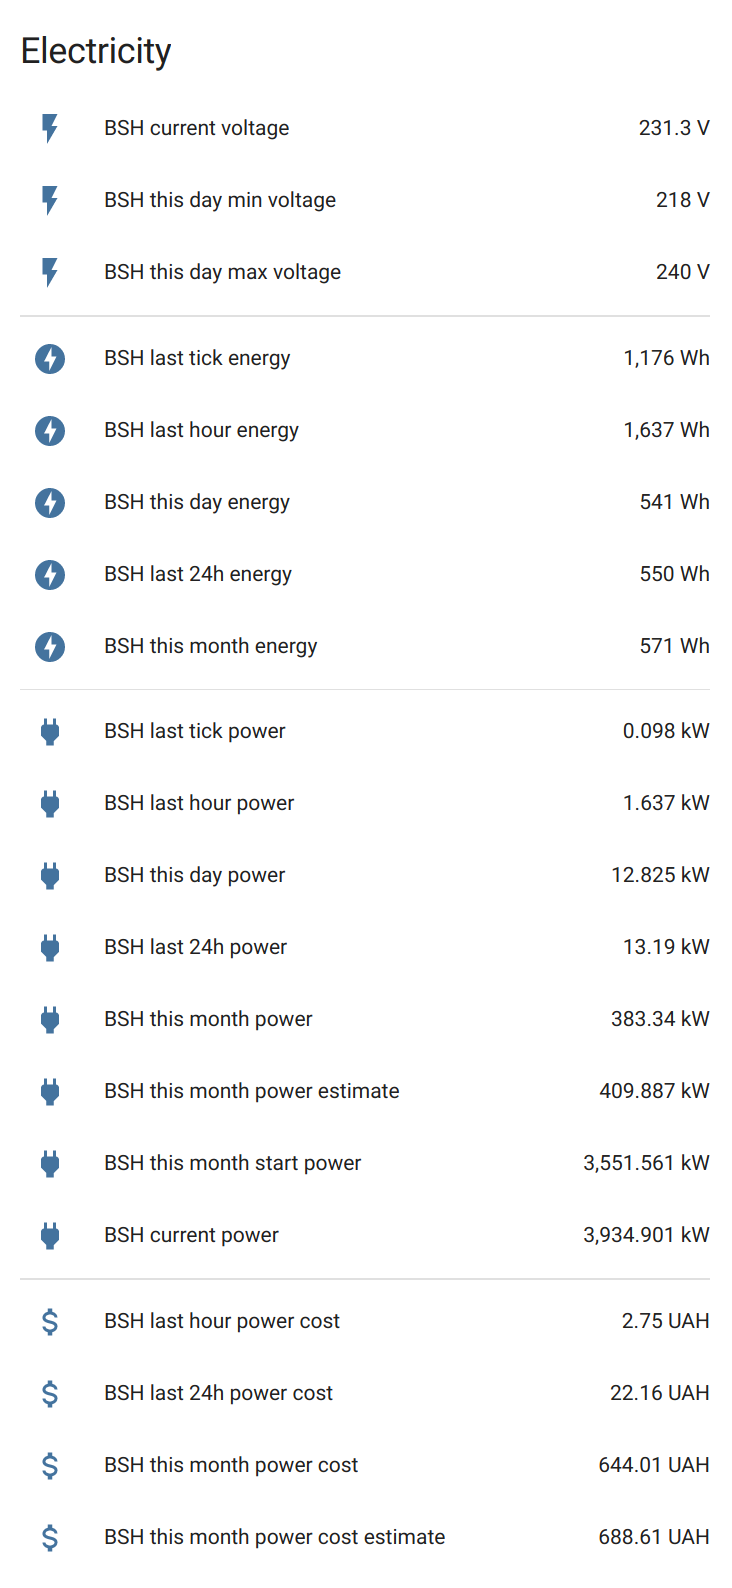
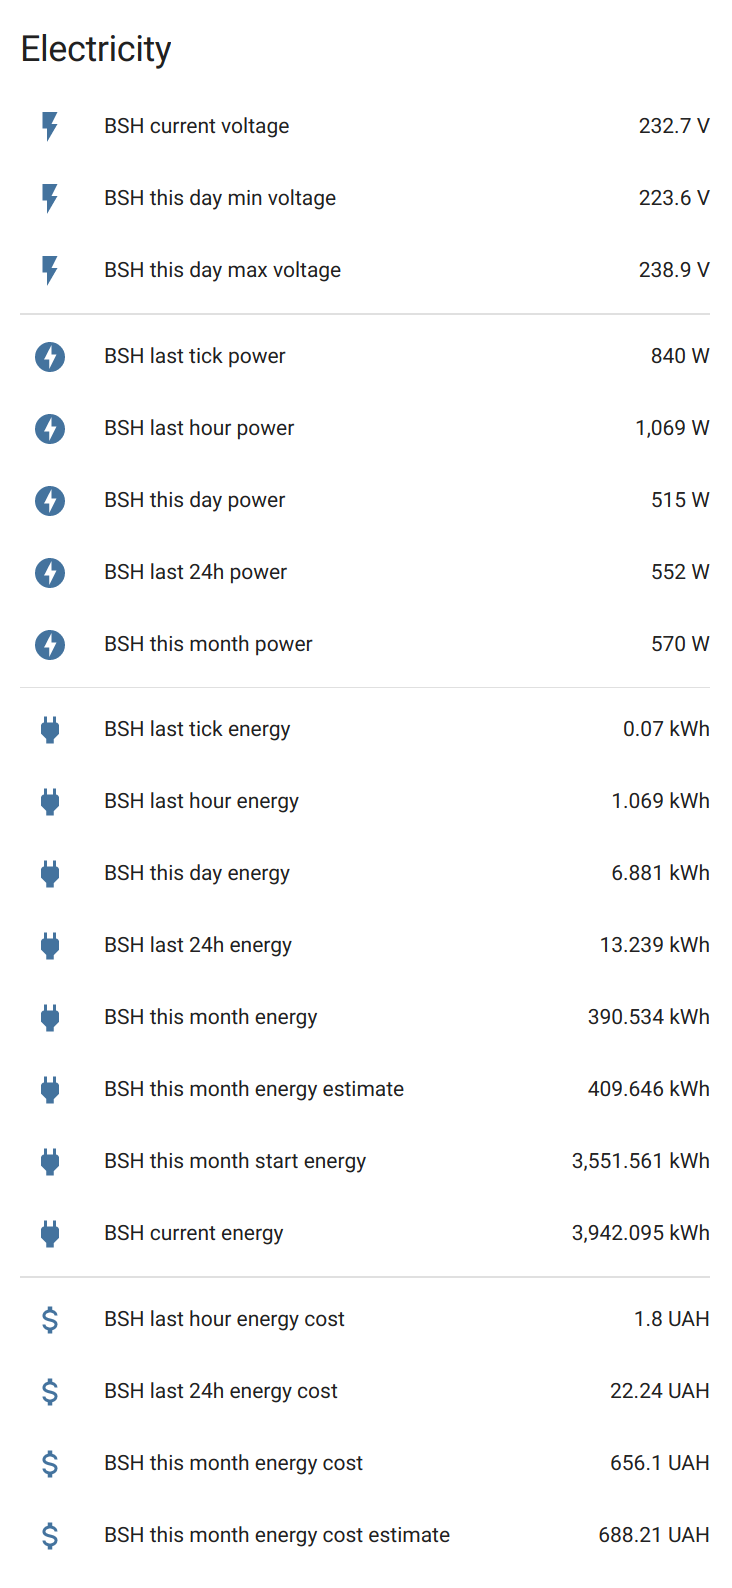
fix power/energy confusion

diff --git a/custom_components/bsh/__init__.py b/custom_components/bsh/__init__.py
@@ -70,31 +70,31 @@ async def async_setup(hass, config):
         response_json = await response.json(content_type=None)
         await response.release()
 
-        entities_values['current power'] = float(response_json['current'])
-        entities_values['this month start power'] = None if response_json['last'] == '-----' else float(response_json['last'])
-        entities_values['this month power'] = float(response_json['beforelast'])
-        entities_values['this month power cost'] = round(billing['electricity'] * entities_values['this month power'], 2)
+        entities_values['current energy'] = float(response_json['current'])
+        entities_values['this month start energy'] = None if response_json['last'] == '-----' else float(response_json['last'])
+        entities_values['this month energy'] = float(response_json['beforelast'])
+        entities_values['this month energy cost'] = round(billing['electricity'] * entities_values['this month energy'], 2)
 
         response = await session.get('https://sh.od.ua/user/indicators/energy-day/')
         response_json = await response.json(content_type=None)
         await response.release()
         response_values = list(filter(lambda x: x[1], response_json))
-        entities_values['last tick power'] = round(sum(map(lambda x: x[1], filter(lambda x: x[0] > tick_start_ms, response_values))), 3)
-        entities_values['last hour power'] = round(sum(map(lambda x: x[1], filter(lambda x: x[0] > hour_start_ms, response_values))), 3)
-        entities_values['last 24h power'] = round(sum(map(lambda x: x[1], response_values)), 3)
-        entities_values['this day power'] = round(sum(map(lambda x: x[1], filter(lambda x: x[0] > day_start_ms, response_values))), 3)
+        entities_values['last tick energy'] = round(sum(map(lambda x: x[1], filter(lambda x: x[0] > tick_start_ms, response_values))), 3)
+        entities_values['last hour energy'] = round(sum(map(lambda x: x[1], filter(lambda x: x[0] > hour_start_ms, response_values))), 3)
+        entities_values['last 24h energy'] = round(sum(map(lambda x: x[1], response_values)), 3)
+        entities_values['this day energy'] = round(sum(map(lambda x: x[1], filter(lambda x: x[0] > day_start_ms, response_values))), 3)
 
-        entities_values['last hour power cost'] = round(billing['electricity'] * entities_values['last hour power'], 2)
-        entities_values['last 24h power cost'] = round(billing['electricity'] * entities_values['last 24h power'], 2)
+        entities_values['last hour energy cost'] = round(billing['electricity'] * entities_values['last hour energy'], 2)
+        entities_values['last 24h energy cost'] = round(billing['electricity'] * entities_values['last 24h energy'], 2)
 
-        entities_values['this month power estimate'] = round(entities_values['this month power'] + entities_values['last 24h power'] * (month_rest / 3600 / 24), 3)
-        entities_values['this month power cost estimate'] = round(billing['electricity'] * entities_values['this month power estimate'], 2)
+        entities_values['this month energy estimate'] = round(entities_values['this month energy'] + entities_values['last 24h energy'] * (month_rest / 3600 / 24), 3)
+        entities_values['this month energy cost estimate'] = round(billing['electricity'] * entities_values['this month energy estimate'], 2)
 
-        entities_values['last tick energy'] = round(entities_values['last tick power'] * 1000 * 3600 / conf['interval'])
-        entities_values['last hour energy'] = round(entities_values['last hour power'] * 1000)
-        entities_values['last 24h energy'] = round(entities_values['last 24h power'] * 1000 / 24)
-        entities_values['this day energy'] = round(entities_values['this day power'] * 1000 / day_start_hours)
-        entities_values['this month energy'] = round(entities_values['this month power'] * 1000 / (month_past / 3600))
+        entities_values['last tick power'] = round(entities_values['last tick energy'] * 1000 * 3600 / conf['interval'])
+        entities_values['last hour power'] = round(entities_values['last hour energy'] * 1000)
+        entities_values['last 24h power'] = round(entities_values['last 24h energy'] * 1000 / 24)
+        entities_values['this day power'] = round(entities_values['this day energy'] * 1000 / day_start_hours)
+        entities_values['this month power'] = round(entities_values['this month energy'] * 1000 / (month_past / 3600))
 
         response = await session.get('https://sh.od.ua/user/indicators/indicators/')
         response_json = await response.json(content_type=None)
@@ -224,25 +224,25 @@ async def async_setup(hass, config):
         ### billing ###
         
         entities_values['last hour total cost'] = round(
-            entities_values['last hour power cost'] +
+            entities_values['last hour energy cost'] +
             entities_values['last hour heat energy cost'] +
             entities_values['last hour hot water cost'] +
             entities_values['last hour cold water cost']
         , 2)
         entities_values['last 24h total cost'] = round(
-            entities_values['last 24h power cost'] +
+            entities_values['last 24h energy cost'] +
             entities_values['last 24h heat energy cost'] +
             entities_values['last 24h hot water cost'] +
             entities_values['last 24h cold water cost']
         , 2)
         entities_values['this month total cost'] = round(
-            entities_values['this month power cost'] +
+            entities_values['this month energy cost'] +
             entities_values['this month heat energy cost'] +
             entities_values['this month hot water cost'] +
             entities_values['this month cold water cost']
         , 2)
         entities_values['this month total cost estimate'] = round(
-            entities_values['this month power cost estimate'] + 
+            entities_values['this month energy cost estimate'] + 
             entities_values['this month heat energy cost estimate'] + 
             entities_values['this month hot water cost estimate'] +
             entities_values['this month cold water cost estimate']

diff --git a/custom_components/bsh/sensor.py b/custom_components/bsh/sensor.py
@@ -2,8 +2,8 @@ from homeassistant.const import (
     STATE_OFF,
     STATE_ON,
     TEMP_CELSIUS,
-    ENERGY_WATT_HOUR,
-    POWER_KILO_WATT,
+    POWER_WATT,
+    ENERGY_KILO_WATT_HOUR,
     VOLT,
     TIME_SECONDS,
     VOLUME_CUBIC_METERS
@@ -18,28 +18,28 @@ MONEY_UAH = 'UAH'
 
 sensors = [
     {
-        'key': 'last 24h energy',
-        'unit': ENERGY_WATT_HOUR,
+        'key': 'last 24h power',
+        'unit': POWER_WATT,
         'icon': 'mdi:flash-circle'
     },
     {
-        'key': 'last hour energy',
-        'unit': ENERGY_WATT_HOUR,
+        'key': 'last hour power',
+        'unit': POWER_WATT,
         'icon': 'mdi:flash-circle'
     },
     {
-        'key': 'last tick energy',
-        'unit': ENERGY_WATT_HOUR,
+        'key': 'last tick power',
+        'unit': POWER_WATT,
         'icon': 'mdi:flash-circle'
     },
     {
-        'key': 'this day energy',
-        'unit': ENERGY_WATT_HOUR,
+        'key': 'this day power',
+        'unit': POWER_WATT,
         'icon': 'mdi:flash-circle'
     },
     {
-        'key': 'this month energy',
-        'unit': ENERGY_WATT_HOUR,
+        'key': 'this month power',
+        'unit': POWER_WATT,
         'icon': 'mdi:flash-circle'
     },
     
@@ -105,63 +105,63 @@ sensors = [
     },
 
     {
-        'key': 'current power',
-        'unit': POWER_KILO_WATT,
+        'key': 'current energy',
+        'unit': ENERGY_KILO_WATT_HOUR,
         'icon': 'mdi:power-plug'
     },
     {
-        'key': 'last 24h power',
-        'unit': POWER_KILO_WATT,
+        'key': 'last 24h energy',
+        'unit': ENERGY_KILO_WATT_HOUR,
         'icon': 'mdi:power-plug'
     },
     {
-        'key': 'last 24h power cost',
+        'key': 'last 24h energy cost',
         'unit': MONEY_UAH,
         'icon': 'mdi:currency-usd'
     },
     {
-        'key': 'last hour power',
-        'unit': POWER_KILO_WATT,
+        'key': 'last hour energy',
+        'unit': ENERGY_KILO_WATT_HOUR,
         'icon': 'mdi:power-plug'
     },
     {
-        'key': 'last hour power cost',
+        'key': 'last hour energy cost',
         'unit': MONEY_UAH,
         'icon': 'mdi:currency-usd'
     },
     {
-        'key': 'last tick power',
-        'unit': POWER_KILO_WATT,
+        'key': 'last tick energy',
+        'unit': ENERGY_KILO_WATT_HOUR,
         'icon': 'mdi:power-plug'
     },
     {
-        'key': 'this day power',
-        'unit': POWER_KILO_WATT,
+        'key': 'this day energy',
+        'unit': ENERGY_KILO_WATT_HOUR,
         'icon': 'mdi:power-plug'
     },
     {
-        'key': 'this month power',
-        'unit': POWER_KILO_WATT,
+        'key': 'this month energy',
+        'unit': ENERGY_KILO_WATT_HOUR,
         'icon': 'mdi:power-plug'
     },
     {
-        'key': 'this month power cost',
+        'key': 'this month energy cost',
         'unit': MONEY_UAH,
         'icon': 'mdi:currency-usd'
     },
     {
-        'key': 'this month power cost estimate',
+        'key': 'this month energy cost estimate',
         'unit': MONEY_UAH,
         'icon': 'mdi:currency-usd'
     },
     {
-        'key': 'this month power estimate',
-        'unit': POWER_KILO_WATT,
+        'key': 'this month energy estimate',
+        'unit': ENERGY_KILO_WATT_HOUR,
         'icon': 'mdi:power-plug'
     },
     {
-        'key': 'this month start power',
-        'unit': POWER_KILO_WATT,
+        'key': 'this month start energy',
+        'unit': ENERGY_KILO_WATT_HOUR,
         'icon': 'mdi:power-plug'
     },
 

diff --git a/readme.md b/readme.md
@@ -151,34 +151,34 @@ views:
               - sensor.bsh_this_day_min_voltage
               - sensor.bsh_this_day_max_voltage
               - type: divider
-              - sensor.bsh_last_tick_energy
-              - sensor.bsh_last_hour_energy
-              - sensor.bsh_this_day_energy
-              - sensor.bsh_last_24h_energy
-              - sensor.bsh_this_month_energy
-              - type: divider
               - sensor.bsh_last_tick_power
               - sensor.bsh_last_hour_power
               - sensor.bsh_this_day_power
               - sensor.bsh_last_24h_power
               - sensor.bsh_this_month_power
-              - sensor.bsh_this_month_power_estimate
-              - sensor.bsh_this_month_start_power
-              - sensor.bsh_current_power
               - type: divider
-              - sensor.bsh_last_hour_power_cost
-              - sensor.bsh_last_24h_power_cost
-              - sensor.bsh_this_month_power_cost
-              - sensor.bsh_this_month_power_cost_estimate
+              - sensor.bsh_last_tick_energy
+              - sensor.bsh_last_hour_energy
+              - sensor.bsh_this_day_energy
+              - sensor.bsh_last_24h_energy
+              - sensor.bsh_this_month_energy
+              - sensor.bsh_this_month_energy_estimate
+              - sensor.bsh_this_month_start_energy
+              - sensor.bsh_current_energy
+              - type: divider
+              - sensor.bsh_last_hour_energy_cost
+              - sensor.bsh_last_24h_energy_cost
+              - sensor.bsh_this_month_energy_cost
+              - sensor.bsh_this_month_energy_cost_estimate
           - type: history-graph
             hours_to_show: 3
             entities:
               - sensor.bsh_current_voltage
               - sensor.bsh_this_day_min_voltage
               - sensor.bsh_this_day_max_voltage
-              - sensor.bsh_last_tick_energy
-              - sensor.bsh_last_hour_energy
-              - sensor.bsh_last_24h_energy
+              - sensor.bsh_last_tick_power
+              - sensor.bsh_last_hour_power
+              - sensor.bsh_last_24h_power
     
       - type: vertical-stack
         cards:
